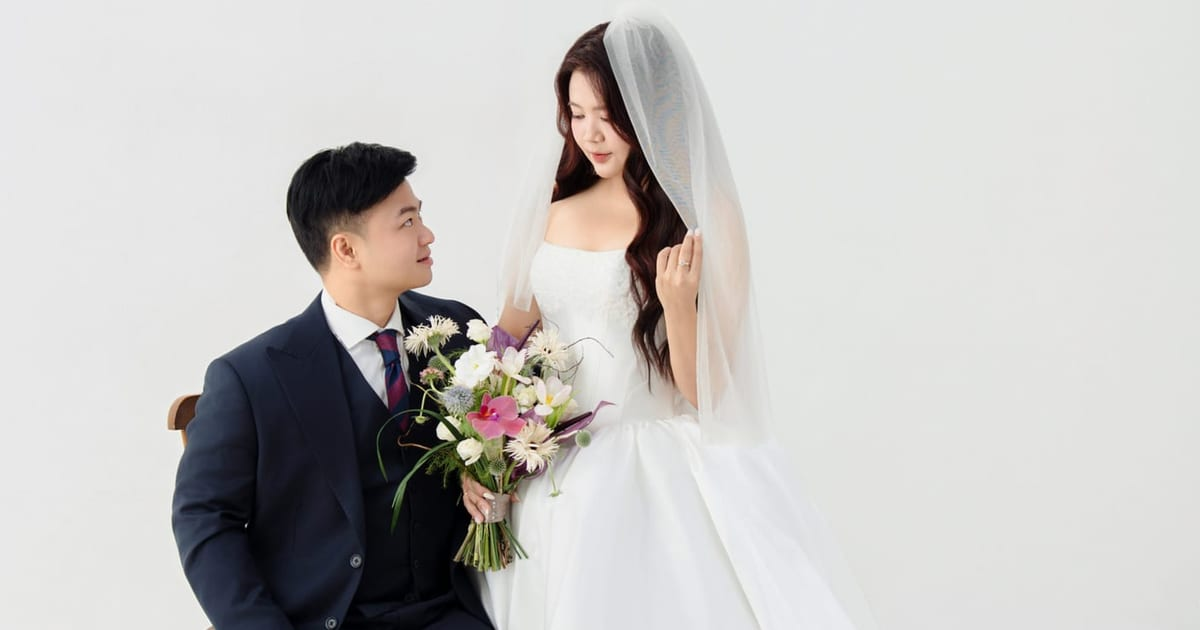
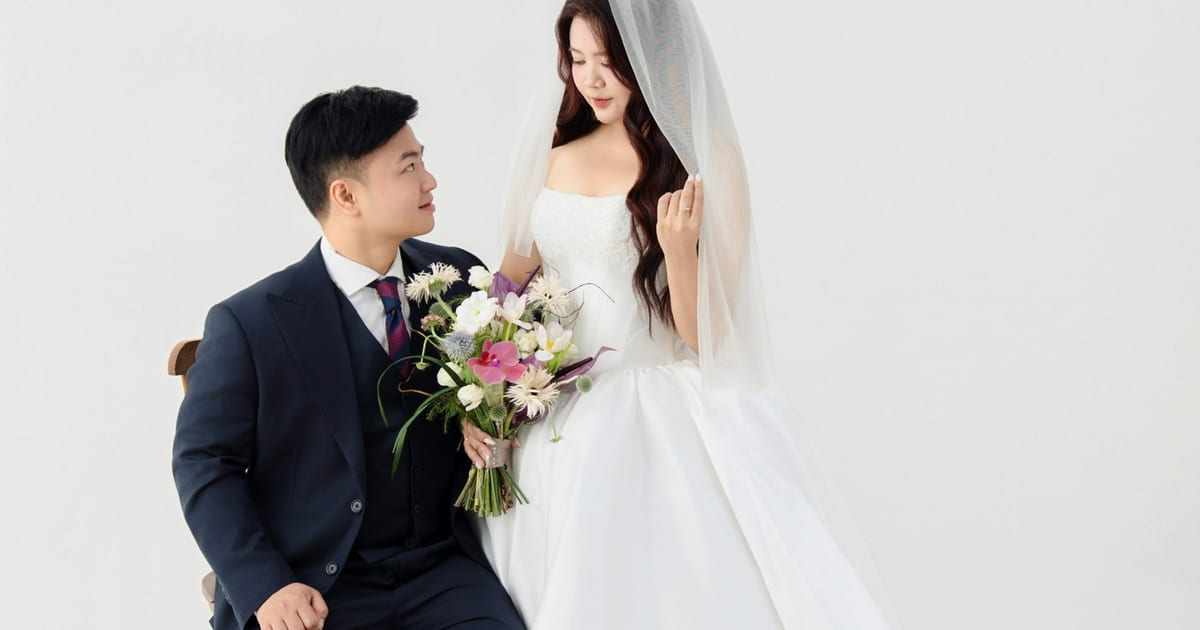
feat: replace cover photo and link-preview image

diff --git a/app/components/Section1.tsx b/app/components/Section1.tsx
@@ -10,7 +10,7 @@ export default function Section1({ guestType = 'BOTH' }: { guestType?: string })
     <>
 <div data-node-id="element_image_uuhu8y3wiv4" style={{"position":"absolute","left":"-4.097005208333329px","top":"-1.366102430555543px","width":"580.7565104166666px","height":"873.7580295138888px","zIndex":"0","opacity":"1","--miu-node-rotate":"0deg","transform":"rotate(var(--miu-node-rotate, 0deg))","overflow":"hidden","borderRadius":"0px"}}>
           <div style={{"position":"relative","width":"100%","height":"100%"}}>
-            <img src="./assets/cover-save-the-date.jpg" alt="" style={{"width":"100%","height":"100%","objectFit":"cover","objectPosition":"50% 50%","display":"block","transform":"scale(1, 1)","transformOrigin":"center","borderRadius":"0px"}} />
+            <img src="./assets/cover-couple.jpg" alt="" style={{"width":"100%","height":"100%","objectFit":"cover","objectPosition":"50% 50%","display":"block","transform":"scale(1, 1)","transformOrigin":"center","borderRadius":"0px"}} />
             <div aria-hidden="true" style={{"position":"absolute","inset":"0","background":"linear-gradient(\n                  to top,\n                  rgba(0, 0, 0, 0.4) 0%,\n                  rgba(0, 0, 0, 0) 60%\n                )","opacity":"1","mixBlendMode":"normal","pointerEvents":"none","borderRadius":"0px"}}></div>
           </div>
         </div>
